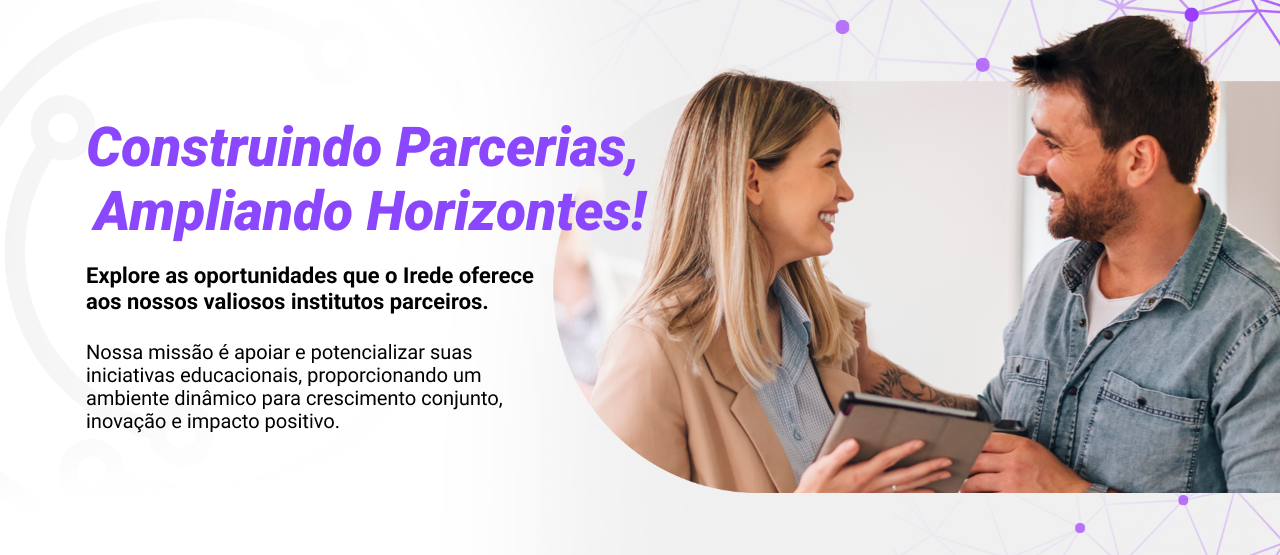
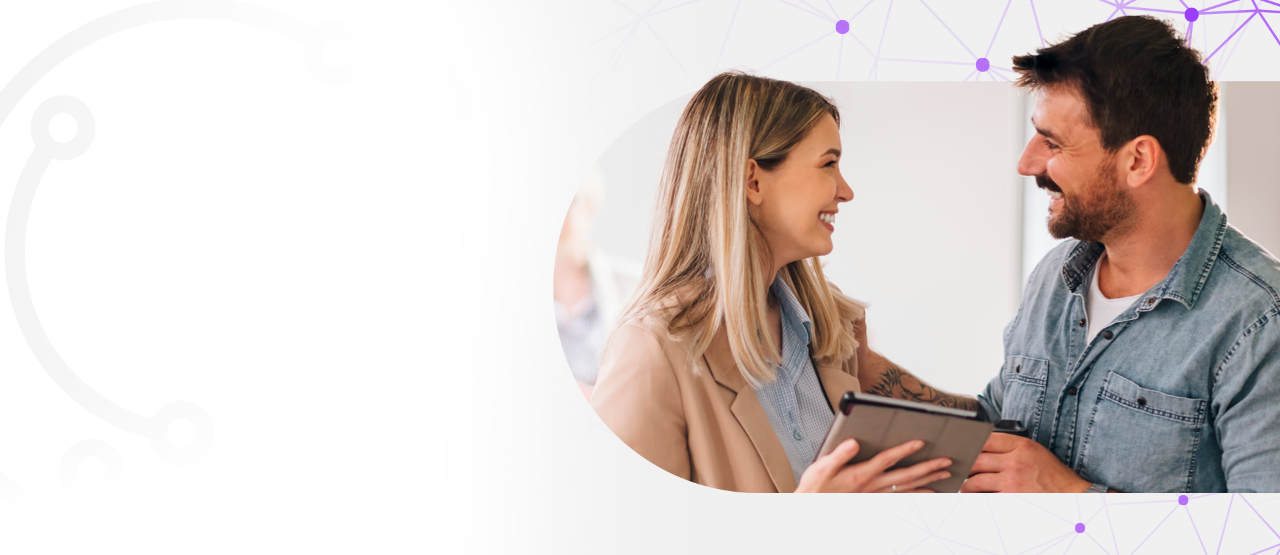
Code Slide OK Style Falta

diff --git a/Site-Irede/src/views/carrossel/carrossel.vue b/Site-Irede/src/views/carrossel/carrossel.vue
@@ -1,40 +1,82 @@
 <script>
-import { createApp } from "vue";
-import Galleria from 'primevue/galleria';
-import { defineAsyncComponent, defineComponent } from "vue";
-export default defineComponent({ name: "carrossel",
-setup() {
-    images = [
-  {
-    name: "../../assets/Imagens/Slides_bg_1.png",
-    alt: "Slide_1"
+import image1 from "../../assets/Imagens/bg_1.png";
+import image2 from "../../assets/Imagens/bg_2.png";
+import image3 from "../../assets/Imagens/bg_3.png";
+import image4 from "../../assets/Imagens/bg_4.png";
+import Galleria from "primevue/galleria";
+import { defineComponent } from "vue";
+export default defineComponent({
+  name: "carrossel",
+  components: { Galleria },
+  setup() {
+    const carouselSlides = [{
+      image: image1,
+      title: "Construindo Parcerias, Ampliando Horizontes! ",
+      imageText: "Explore as oportunidades que o Irede oferece aos nossos valiosos institutos parceiros. Nossa missão é apoiar e potencializar suas iniciativas educacionais, proporcionando um ambiente dinâmico para crescimento conjunto, inovação e impacto positivo. ",
+      buttonName: "Saiba Mais!",
+      buttonLink: "Hello.com",
+      cssClass: "Slide_1",
+      right: true,
+    },
+    {
+      image: image2,
+      title: "Impulsione a Inovação, Conquiste o Futuro! ",
+      imageText: "Explore nossos recursos avançados, projetados para acelerar o ciclo de inovação em sua organização. Da pesquisa à implementação, o Irede oferece um ambiente colaborativo que amplia fronteiras e transforma ideias em realidade.",
+      buttonName: "Saiba Mais!",
+      buttonLink: "Hello.com",
+      cssClass: "Slide_1",
+      right: true,
+    },
+    {
+      image: image3,
+      title: "Descubra nossos projetos de capacitação inovadores!",
+      imageText: "Projetados para impulsionar sua carreira e prepará-lo para os desafios do mundo digital. Prepare-se para explorar, aprender e crescer. Seu futuro começa aqui, no iRede.",
+      buttonName: "Saiba Mais!",
+      buttonLink: "Hello.com",
+      cssClass: "Slide_1",
+      right: false,
+    },
+    {
+      image: image4,
+      title: "Você sabe onde está a base para construir inovação?",
+      imageText: "Está na Criatividade, na educação, na pesquisa e no desenvolvimento. É ai que o Irede entra em ação! Buscamos promover a inovação e transformar vidas por meio de capacitações, preparando as pessoas para o futuro.",
+      buttonName: "Saiba Mais!",
+      buttonLink: "Hello.com",
+      cssClass: "Slide_1",
+      right: true,
+    },
+    ];
+    return { carouselSlides };
   },
-  {
-    name: "../../assets/Imagens/Slides_bg_1.png",
-    alt: "Slide_1"
-  },
-  {
-    name: "../../assets/Imagens/Slides_bg_1.png",
-    alt: "Slide_1"
-  },
-  {
-    name: "../../assets/Imagens/Slides_bg_1.png",
-    alt: "Slide_1"
-  },
-  
-]
-  }
-})
+});
 </script>
-
+ 
 <template>
-    <Galleria :value="images" :numVisible="1" containerStyle="max-w-fit" :showThumbnails="false"
-        :showIndicators="true">
-        <template #item="slotProps" v-for="images in setup">
-            <img :src="slotProps.item.itemImageSrc" :alt="slotProps.item.alt" style="width: 100%; display: block;"/>
-        </template>
-    </Galleria>
+  <Galleria :value="carouselSlides" :responsiveOptions="responsiveOptions" :numVisible="5" :circular="true"
+    :showItemNavigators="true" :showThumbnails="false">
+
+    <template #item="slotProps">
+
+      <div class="w-full h-screen" v-if="slotProps.item.right">
+        <img :src="slotProps.item.image" :alt="slotProps.item.image" style="width: 100%; display: block" />
+        <div>
+          <h1>{{ slotProps.item.title }}</h1>
+          <p>{{ slotProps.item.imageText }}</p>
+          <button :class="slotProps.item.cssClass">{{ slotProps.item.buttonName }}</button>
+        </div>
+      </div>
+
+      <div class="w-full h-screen" v-else="">
+        <img :src="slotProps.item.image" :alt="slotProps.item.image" style="width: 100%; display: block" />
+        <div>
+          <h1>{{ slotProps.item.title }}</h1>
+          <p>{{ slotProps.item.imageText }}</p>
+          <button :class="slotProps.item.cssClass">{{ slotProps.item.buttonName }}</button>
+        </div>
+      </div>
+    </template>
+
+  </Galleria>
 </template>
-
+ 
 <style scoped></style>
-

diff --git a/Site-Irede/src/views/topbar/topbar.vue b/Site-Irede/src/views/topbar/topbar.vue
@@ -1,6 +1,5 @@
 <script>
 import { createApp, ref } from "vue";
-import Menubar from 'primevue/menubar';
 import { defineAsyncComponent, defineComponent } from "vue";
 export default defineComponent({
   name: "topbar",
